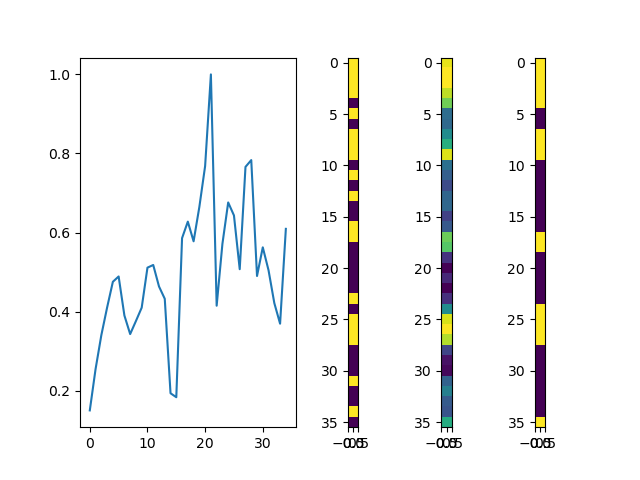
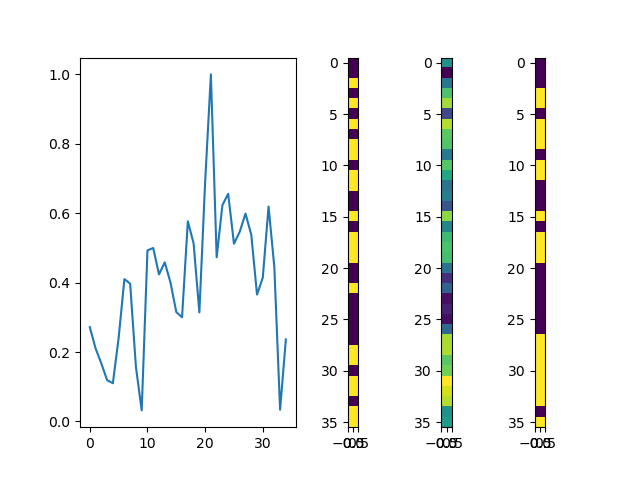
more data results

diff --git a/1d/peaks_to_slot/constant_power/analysis.py b/1d/peaks_to_slot/constant_power/analysis.py
@@ -157,7 +157,7 @@ def plot_rounded(which):
     ax[3].imshow(tf.expand_dims(pred,1),cmap = 'GnBu')
     ax[4].imshow(tf.expand_dims(naive,1),cmap = 'GnBu')
 
-plot_rounded(5)
+plot_rounded(8)
 
 # assump_accuracy(tf.expand_dims(tf.stack(prediction)[0],axis=0),tf.expand_dims(tf.squeeze(tf.stack(true)[9]),axis=0))
 assump_accuracy(tf.stack(prediction),tf.squeeze(tf.stack(true)))
